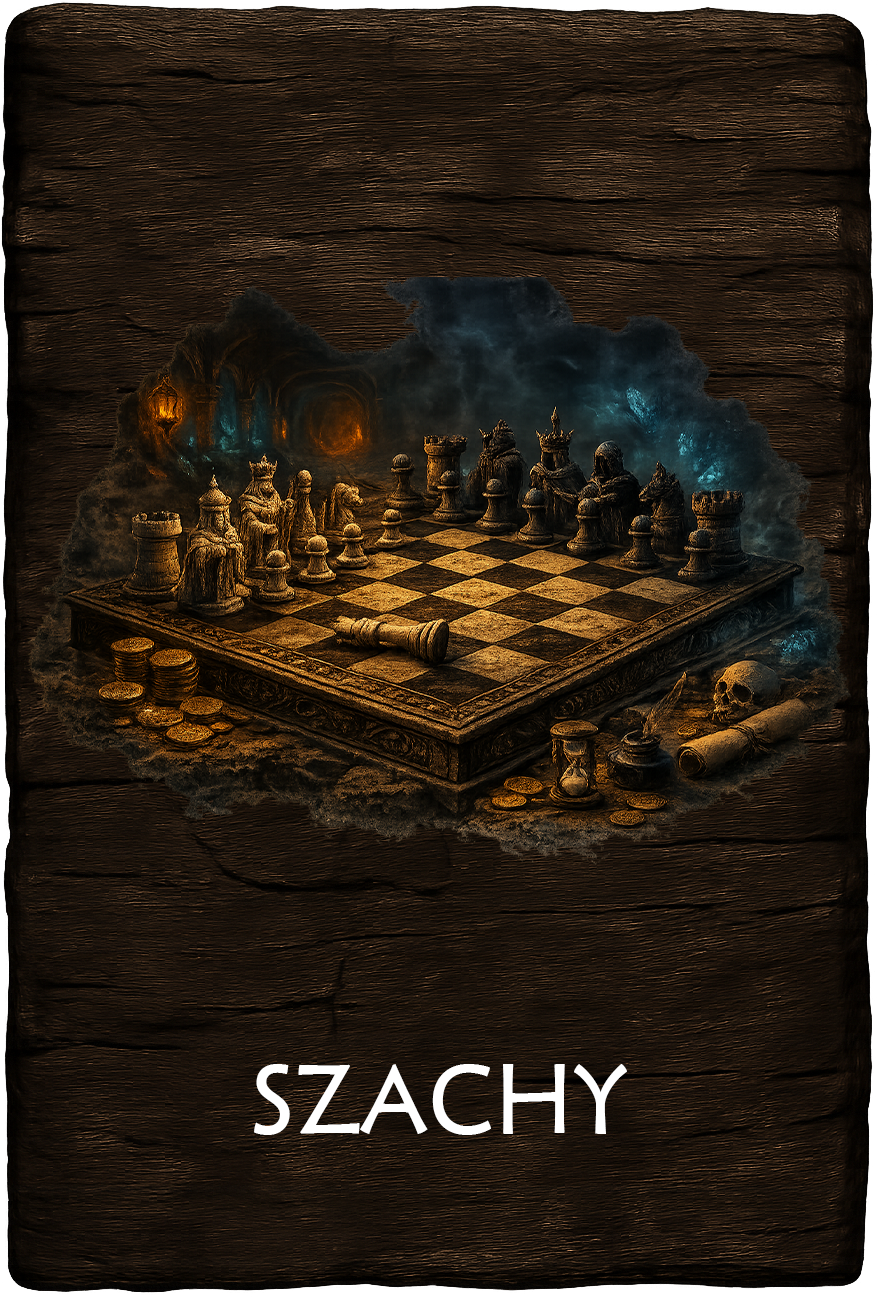
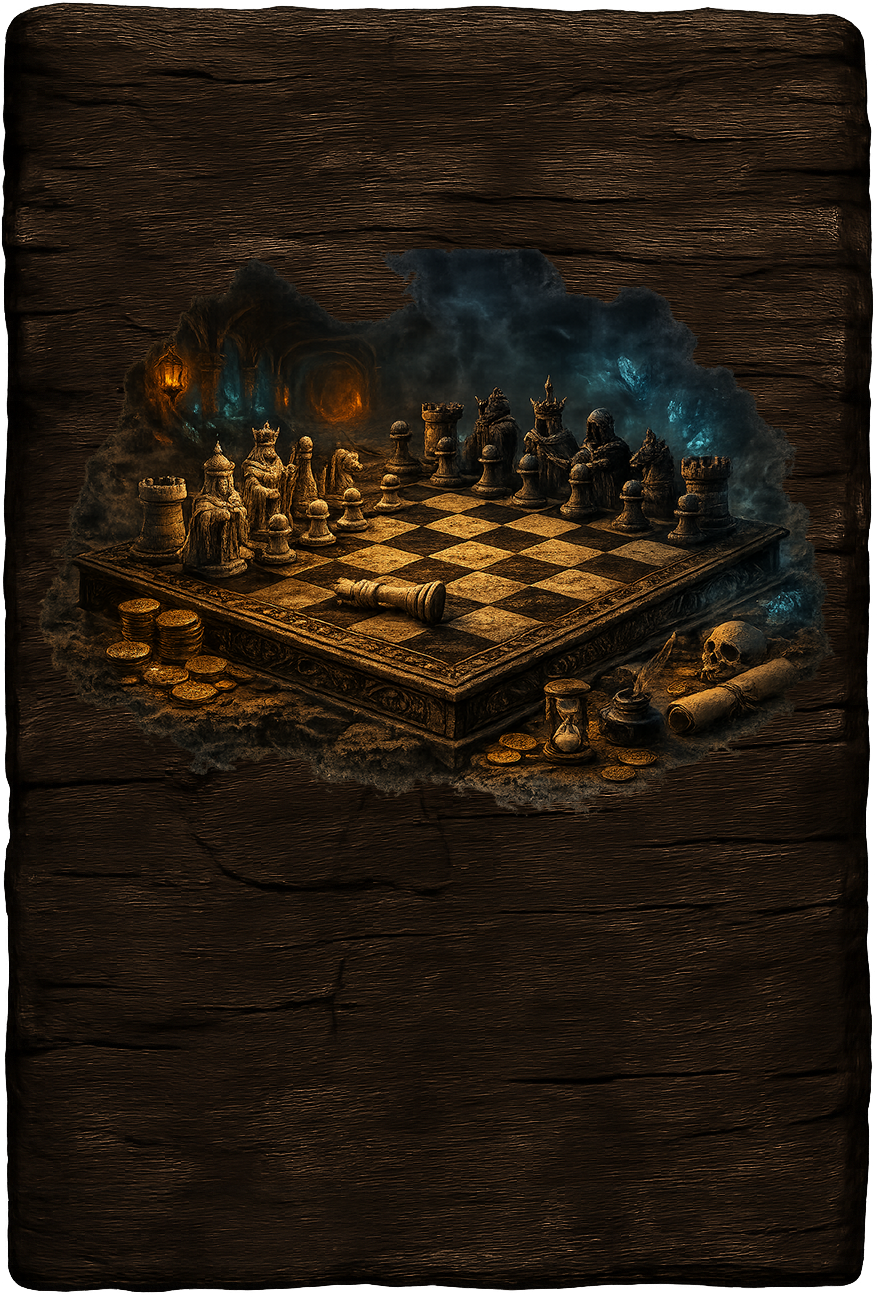
dup4

Changed region(s): [[0.0308, 0.185, 0.9533, 0.6785], [0.2768, 0.8019, 0.7073, 0.8944]]

diff --git a/frontend/strusnik/src/app/components/menu/cardContainer.tsx b/frontend/strusnik/src/app/components/menu/cardContainer.tsx
@@ -1,16 +1,69 @@
-import React from 'react'
-import Card from './card'
+import React from "react";
 
 interface CardContainerProps {
-    children: React.ReactNode
+  children: React.ReactNode;
 }
 
 export default function CardContainer({ children }: CardContainerProps) {
+  const items = React.Children.toArray(children).filter((c) =>
+    React.isValidElement(c)
+  );
+
+  const cardCount = items.length;
+  const compact = cardCount > 3;
+
+  const gapClass = compact
+    ? "gap-1 sm:gap-2 md:gap-3"
+    : "gap-2 sm:gap-3 md:gap-4";
+
+  if (cardCount <= 3) {
     return (
-        <div className="relative w-full min-h-screen flex items-center justify-center px-3 py-16 sm:px-4 sm:py-20">
-            <div className="z-10 flex flex-wrap justify-center gap-2 sm:gap-3 md:gap-4 max-w-5xl w-full">
-                {children}
-            </div>
+      <div
+        className={[
+          "relative w-full min-h-screen flex items-center justify-center px-3 sm:px-4",
+          compact ? "py-8 sm:py-10" : "py-16 sm:py-20",
+        ].join(" ")}
+      >
+        <div className={`z-10 flex flex-wrap justify-center max-w-5xl w-full ${gapClass}`}>
+          {items.map((child, i) =>
+            React.cloneElement(child as React.ReactElement<any>, {
+              compact,
+              key: (child as any).key ?? i,
+            })
+          )}
         </div>
-    )
+      </div>
+    );
+  }
+
+  const topCount = Math.ceil(cardCount / 2);
+  const topRow = items.slice(0, topCount);
+  const bottomRow = items.slice(topCount);
+
+  return (
+    <div
+      className={[
+        "relative w-full min-h-screen flex flex-col items-center justify-center px-3 sm:px-4",
+        compact ? "py-8 sm:py-10" : "py-16 sm:py-20",
+      ].join(" ")}
+    >
+      <div className={`z-10 flex flex-wrap justify-center max-w-5xl w-full ${gapClass}`}>
+        {topRow.map((child, i) =>
+          React.cloneElement(child as React.ReactElement<any>, {
+            compact,
+            key: (child as any).key ?? `top-${i}`,
+          })
+        )}
+      </div>
+
+      <div className={`z-10 mt-4 sm:mt-6 flex flex-wrap justify-center max-w-5xl w-full ${gapClass}`}>
+        {bottomRow.map((child, i) =>
+          React.cloneElement(child as React.ReactElement<any>, {
+            compact,
+            key: (child as any).key ?? `bottom-${i}`,
+          })
+        )}
+      </div>
+    </div>
+  );
 }

diff --git a/frontend/strusnik/src/app/components/menu/card.tsx b/frontend/strusnik/src/app/components/menu/card.tsx
@@ -1,34 +1,57 @@
-"use client"
+"use client";
 
-import { Games } from '@/app/constants/games';
-import Link from 'next/link';
-import React from 'react'
+import { Games } from "@/app/constants/games";
+import Link from "next/link";
+import React from "react";
+import { useLang } from "@/app/lang";
+import { t } from "@/app/i18n";
 
 interface CardProps {
   gameName: string;
   imgSrc: string;
+  compact?: boolean;
 }
 
-export default function Card({ gameName, imgSrc }: CardProps) {
+function gameKey(name: string) {
+  return name.trim().toLowerCase();
+}
+
+export default function Card({ gameName, imgSrc, compact = false }: CardProps) {
+  const { lang } = useLang();
+
   const getGameLink = () => {
-    if (Games["singleplayer"].includes(gameName)) {
-      return `/singleplayer/${gameName}`;
-    }
+    if (Games["singleplayer"].includes(gameName)) return `/singleplayer/${gameName}`;
     return `/lobby/${gameName}`;
-  }
+  };
+
+  const title = t(lang, `games.${gameKey(gameName)}`);
+
+  const imgClass = compact
+    ? "w-[calc(50vw-16px)] min-w-[120px] max-w-[250px] sm:w-[170px] md:w-[205px] lg:w-[240px] h-auto object-cover rounded-lg"
+    : "w-[calc(50vw-16px)] min-w-[140px] max-w-[300px] sm:w-[200px] md:w-[250px] lg:w-[300px] h-auto object-cover rounded-lg";
 
   return (
     <Link href={getGameLink()}>
       <div className="flex flex-col gap-1 cursor-pointer transition-all hover:scale-[1.03] active:scale-[0.98]">
+        <div className="relative">
+          <img alt={gameName} src={imgSrc} className={imgClass} />
 
-        <img
-          alt={gameName}
-          src={imgSrc}
-          className="w-[calc(50vw-16px)] min-w-[140px] max-w-[300px] sm:w-[200px] md:w-[250px] lg:w-[300px] h-auto object-cover rounded-lg"
-        />
-
+          <div
+            className="pointer-events-none absolute left-1/2 w-[92%] text-center"
+            style={{ bottom: "18%", transform: "translate(-50%, 50%)" }}
+          >
+            <p
+              className="text-white font-bold uppercase tracking-wide"
+              style={{
+                fontSize: "clamp(14px, 2.2vw, 26px)",
+                textShadow: "0 3px 3px rgba(0,0,0,0.95)",
+              }}
+            >
+              {title}
+            </p>
+          </div>
+        </div>
       </div>
     </Link>
   );
-
 }

diff --git a/frontend/strusnik/src/app/i18n.ts b/frontend/strusnik/src/app/i18n.ts
@@ -2,6 +2,17 @@ export type Lang = 'pl' | 'en';
 
 export const I18N = {
 	pl: {
+		games: {
+			chess: "SZACHY",
+			stratego: "STRATEGO",
+			tysiac: "TYSIAC",
+			battleships: "STATKI",
+			set: "SET",
+			blackjack: "BLACKJACK",
+			snake: "SNAKE",
+			tictactoe: "KOLKO I KRZYZYK",
+		},
+
 		common: {
 			yes: 'TAK',
 			no: 'NIE',
@@ -392,6 +403,17 @@ export const I18N = {
 	},
 
 	en: {
+		games: {
+			chess: "CHESS",
+			stratego: "STRATEGO",
+			tysiac: "THOUSAND",
+			battleships: "BATTLESHIPS",
+			set: "SET",
+			blackjack: "BLACKJACK",
+			snake: "SNAKE",
+			tictactoe: "TIC TAC TOE",
+		},
+
 		common: {
 			yes: 'YES',
 			no: 'NO',

diff --git a/backend/flask/routes/auth.py b/backend/flask/routes/auth.py
@@ -87,7 +87,8 @@ def login():
         return response
         
     except Exception as e:
-        pass
+        db.session.rollback()
+        return jsonify({"error": str(e)}), 500
 
 
 @authentication.route("/token", methods=["GET"])
